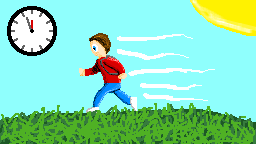
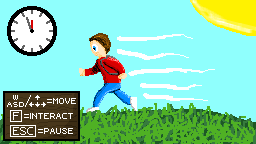
Minor ui changes and bug fixes
Made some slight changes to the UI and fixed the issue with the energy bar

Changed region(s): [[0.0, 0.6111, 0.3125, 1.0]]

diff --git a/core/src/com/mygdx/game/screens/MainMenuScreen.java b/core/src/com/mygdx/game/screens/MainMenuScreen.java
@@ -17,6 +17,7 @@ public class MainMenuScreen implements Screen {
     private SpriteBatch menuBatch;
 
     Texture playButtonTexture;
+    Texture resumeButtonTexture;
     Texture quitButtonTexture;
 
     Texture muteButtonTexture;
@@ -51,6 +52,7 @@ public class MainMenuScreen implements Screen {
         background = new Texture(Gdx.files.internal("background.png"));
 
         playButtonTexture = new Texture(Gdx.files.internal("StartButton.png"));
+        resumeButtonTexture = new Texture(Gdx.files.internal("ResumeButton.png"));
         quitButtonTexture = new Texture(Gdx.files.internal("QuitButton.png"));
 
         muteButtonTexture = new Texture(Gdx.files.internal("VolumeButton.png"));
@@ -111,7 +113,13 @@ public class MainMenuScreen implements Screen {
 
         menuBatch.draw(background, 0, 0, Gdx.graphics.getWidth(), Gdx.graphics.getHeight());
 
-        menuBatch.draw(playButtonTexture, playButtonBounds.x, playButtonBounds.y, playButtonBounds.width, playButtonBounds.height);
+        if (this.gameScreen != null){
+            menuBatch.draw(resumeButtonTexture, playButtonBounds.x, playButtonBounds.y, playButtonBounds.width, playButtonBounds.height);
+        }
+        else{
+            menuBatch.draw(playButtonTexture, playButtonBounds.x, playButtonBounds.y, playButtonBounds.width, playButtonBounds.height);
+        }
+
         menuBatch.draw(quitButtonTexture, quitButtonBounds.x, quitButtonBounds.y, quitButtonBounds.width, quitButtonBounds.height);
 
         menuBatch.draw(muteButtonTexture, muteButtonBounds.x, muteButtonBounds.y, muteButtonBounds.width, muteButtonBounds.height);
